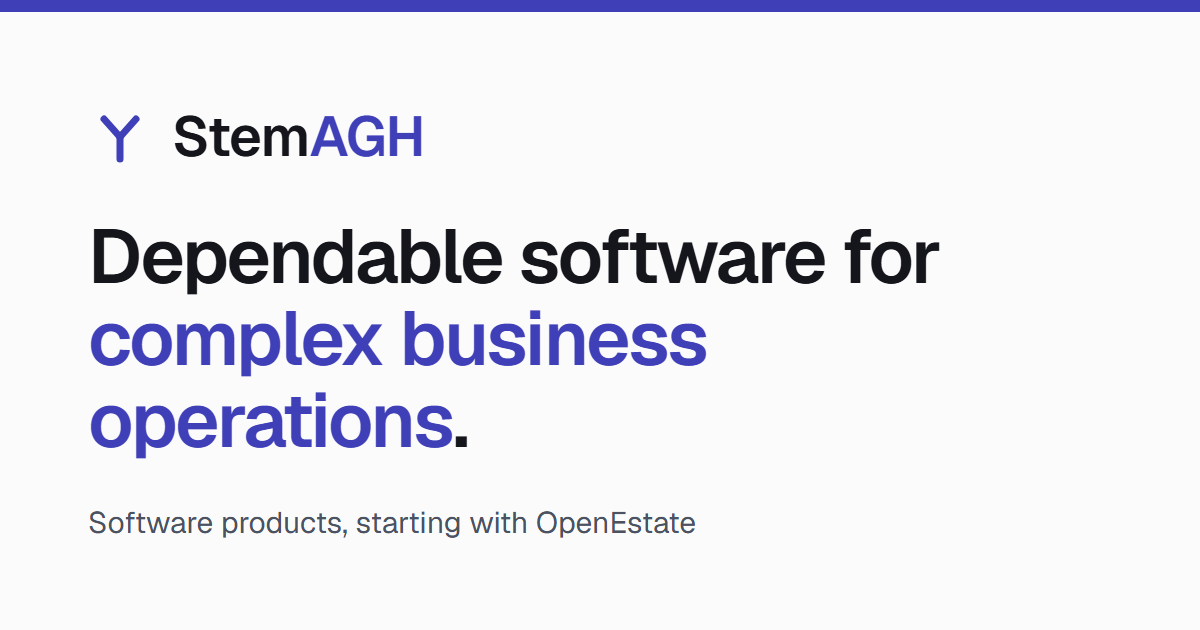
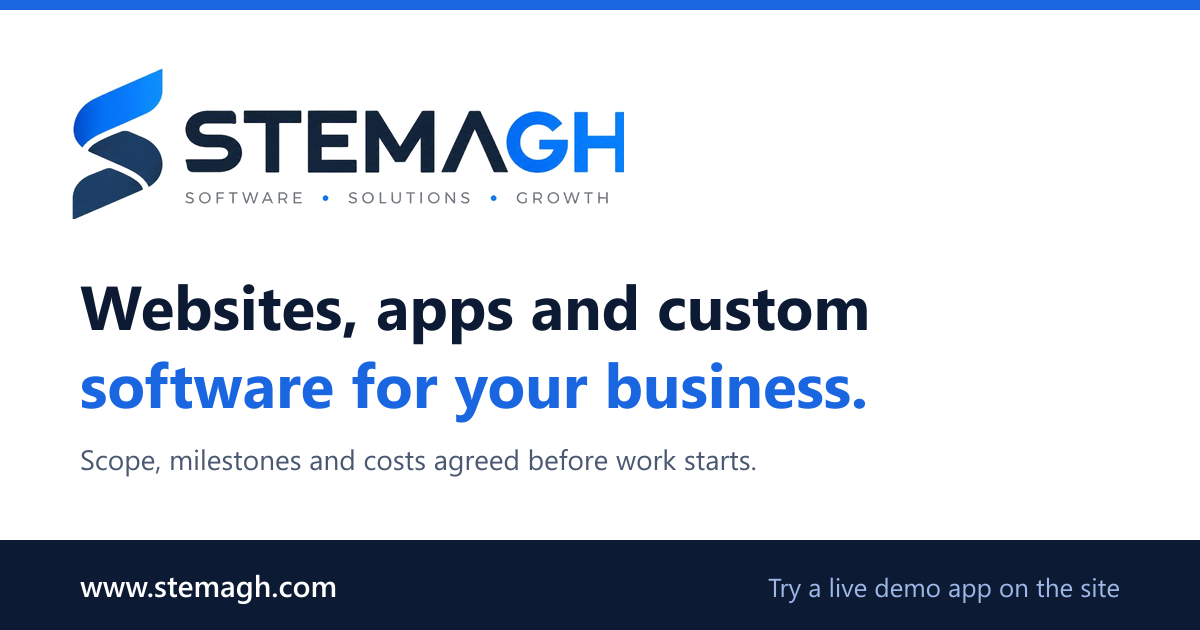
feat(seo): new share image, keyword product title, nav links /services
- og.png rebuilt from the current logo and message; URL versioned (?v=2) so
  WhatsApp/LinkedIn/X drop their cached copy of the old image
- OpenEstate page title: 'OpenEstate: Open-Source Real Estate CRM'
- fuller Contact description; Organization schema links the GitHub profile
- robots.txt disallows /api/
- header 'Services' links /services instead of an anchor on home
- production SEO test updated for the redesigned home page

diff --git a/e2e/production-seo.spec.ts b/e2e/production-seo.spec.ts
@@ -22,9 +22,9 @@ for (const [path, url] of pages) {
     const attr = (sel: string, a: string) => page.locator(sel).first().getAttribute(a);
     expect(await attr('link[rel="canonical"]', 'href')).toBe(url);
     expect(await attr('meta[property="og:url"]', 'content')).toBe(url);
-    expect(await attr('meta[property="og:image"]', 'content')).toBe(`${SITE}/og.png`);
+    expect(await attr('meta[property="og:image"]', 'content')).toBe(`${SITE}/og.png?v=2`);
     expect(await attr('meta[name="twitter:card"]', 'content')).toBe('summary_large_image');
-    expect(await attr('meta[name="twitter:image"]', 'content')).toBe(`${SITE}/og.png`);
+    expect(await attr('meta[name="twitter:image"]', 'content')).toBe(`${SITE}/og.png?v=2`);
     expect(await attr('link[rel="apple-touch-icon"]', 'href')).toContain('/apple-icon.png');
     const html = await page.content();
     expect(html).not.toMatch(/localhost|example\.(com|test)|vercel\.app/i);
@@ -67,11 +67,14 @@ test('homepage primary content is available without JavaScript', async ({ browse
   const context = await browser.newContext({ javaScriptEnabled: false });
   const page = await context.newPage();
   await page.goto('http://localhost:3100/');
-  await expect(page.getByRole('heading', { level: 1 })).toContainText('Built around');
-  await expect(page.getByRole('heading', { name: 'Websites that mean business.' })).toBeVisible();
-  await expect(page.getByRole('link', { name: /View service deliverables/ })).toHaveAttribute(
+  await expect(page.getByRole('heading', { level: 1 })).toContainText('Software built around');
+  await expect(page.getByRole('heading', { name: 'What we build' })).toBeVisible();
+  await expect(page.getByRole('link', { name: /Services and terms/ })).toHaveAttribute(
     'href',
     '/services',
   );
+  // Every page's header links the services page in its HTML (crawlers read markup, and on
+  // phones the nav is inside a closed menu).
+  expect(await page.locator('header a[href="/services"]').count()).toBeGreaterThan(0);
   await context.close();
 });

diff --git a/e2e/launch.spec.ts b/e2e/launch.spec.ts
@@ -58,6 +58,7 @@ test('robots allows crawling and the sitemap lists no guessed URLs', async ({ re
   test.skip(!!process.env.SITE_URL, 'covered by production-seo.spec.ts');
   const robots = await (await request.get('/robots.txt')).text();
   expect(robots).toContain('Allow: /');
+  expect(robots).toContain('Disallow: /api/');
   expect(robots).not.toContain('Sitemap:');
   const sitemap = await (await request.get('/sitemap.xml')).text();
   expect(sitemap).not.toContain('<loc>');
@@ -65,6 +66,8 @@ test('robots allows crawling and the sitemap lists no guessed URLs', async ({ re
 
 test('product page shows when it was last checked', async ({ page }) => {
   await page.goto('/products/openestate');
+  // The search title carries the words people type, not just the product name.
+  await expect(page).toHaveTitle('OpenEstate: Open-Source Real Estate CRM | StemAGH');
   await expect(
     page.getByText(/Last checked against the OpenEstate repository on \d+ \w+ \d{4}/),
   ).toBeVisible();

diff --git a/src/content/products.ts b/src/content/products.ts
@@ -24,6 +24,8 @@ export type Product = {
   /** ISO date this entry was last checked against the product repository. Update with every review (docs/launch.md). */
   reviewedOn: string;
   category: string;
+  /** Search-result title, in words people actually type. Falls back to the name. */
+  seoTitle?: string;
   audience: string[];
   license?: string;
   model: DeliveryModel[];
@@ -80,6 +82,7 @@ export const products: Product[] = [
     version: 'v0.8.4',
     reviewedOn: '2026-10-17',
     category: 'Real-estate sales and operations',
+    seoTitle: 'OpenEstate: Open-Source Real Estate CRM',
     audience: [
       'Real-estate developers',
       'Channel-sales and broker-network teams',

diff --git a/src/app/products/[slug]/page.tsx b/src/app/products/[slug]/page.tsx
@@ -25,9 +25,13 @@ export async function generateMetadata({ params }: Props): Promise<Metadata> {
   const product = getProduct(slug);
   if (!product) return {};
   return {
-    title: product.name,
+    title: product.seoTitle ?? product.name,
     description: product.summary,
-    openGraph: openGraph(`${product.name} | StemAGH`, product.summary, `/products/${product.slug}`),
+    openGraph: openGraph(
+      `${product.seoTitle ?? product.name} | StemAGH`,
+      product.summary,
+      `/products/${product.slug}`,
+    ),
   };
 }
 

diff --git a/src/app/contact/page.tsx b/src/app/contact/page.tsx
@@ -7,7 +7,8 @@ import { Section } from '@/components/section';
 import { featuredProduct } from '@/content/products';
 import { site } from '@/content/site';
 
-const description = 'Discuss a website, web application or custom software project with StemAGH.';
+const description =
+  'Tell StemAGH about your website, mobile app or custom software project. Send a short brief and we reply with next steps, scope and a written proposal.';
 
 export const metadata: Metadata = {
   title: 'Contact',

diff --git a/src/app/layout.tsx b/src/app/layout.tsx
@@ -38,6 +38,7 @@ export default function RootLayout({ children }: Readonly<{ children: React.Reac
             name: site.name,
             description: site.description,
             ...(site.contactEmail && { email: site.contactEmail }),
+            sameAs: ['https://github.com/stemAGH'],
             ...(siteUrl && {
               '@id': `${siteUrl}/#organization`,
               url: siteUrl,

diff --git a/src/content/seo.ts b/src/content/seo.ts
@@ -24,7 +24,8 @@ export function openGraph(
       url: path === '/' ? siteUrl : `${siteUrl}${path}`,
       images: [
         {
-          url: '/og.png',
+          // Bump ?v= when the image changes: WhatsApp, LinkedIn and X cache it by URL.
+          url: '/og.png?v=2',
           width: 1200,
           height: 630,
           alt: 'StemAGH — websites, web applications and custom software',

diff --git a/src/content/site.ts b/src/content/site.ts
@@ -7,7 +7,7 @@ export const site = {
 };
 
 export const navLinks = [
-  { href: '/#services', label: 'Services', match: 'exact' },
+  { href: '/services', label: 'Services', match: 'exact' },
   { href: '/work', label: 'Work', match: 'exact' },
   { href: '/products', label: 'Products', match: 'prefix' },
   { href: '/about', label: 'About', match: 'exact' },

diff --git a/src/app/robots.ts b/src/app/robots.ts
@@ -3,7 +3,7 @@ import { siteUrl } from '@/content/seo';
 
 export default function robots(): MetadataRoute.Robots {
   return {
-    rules: { userAgent: '*', allow: '/' },
+    rules: { userAgent: '*', allow: '/', disallow: '/api/' },
     ...(siteUrl && { sitemap: `${siteUrl}/sitemap.xml` }),
   };
 }
